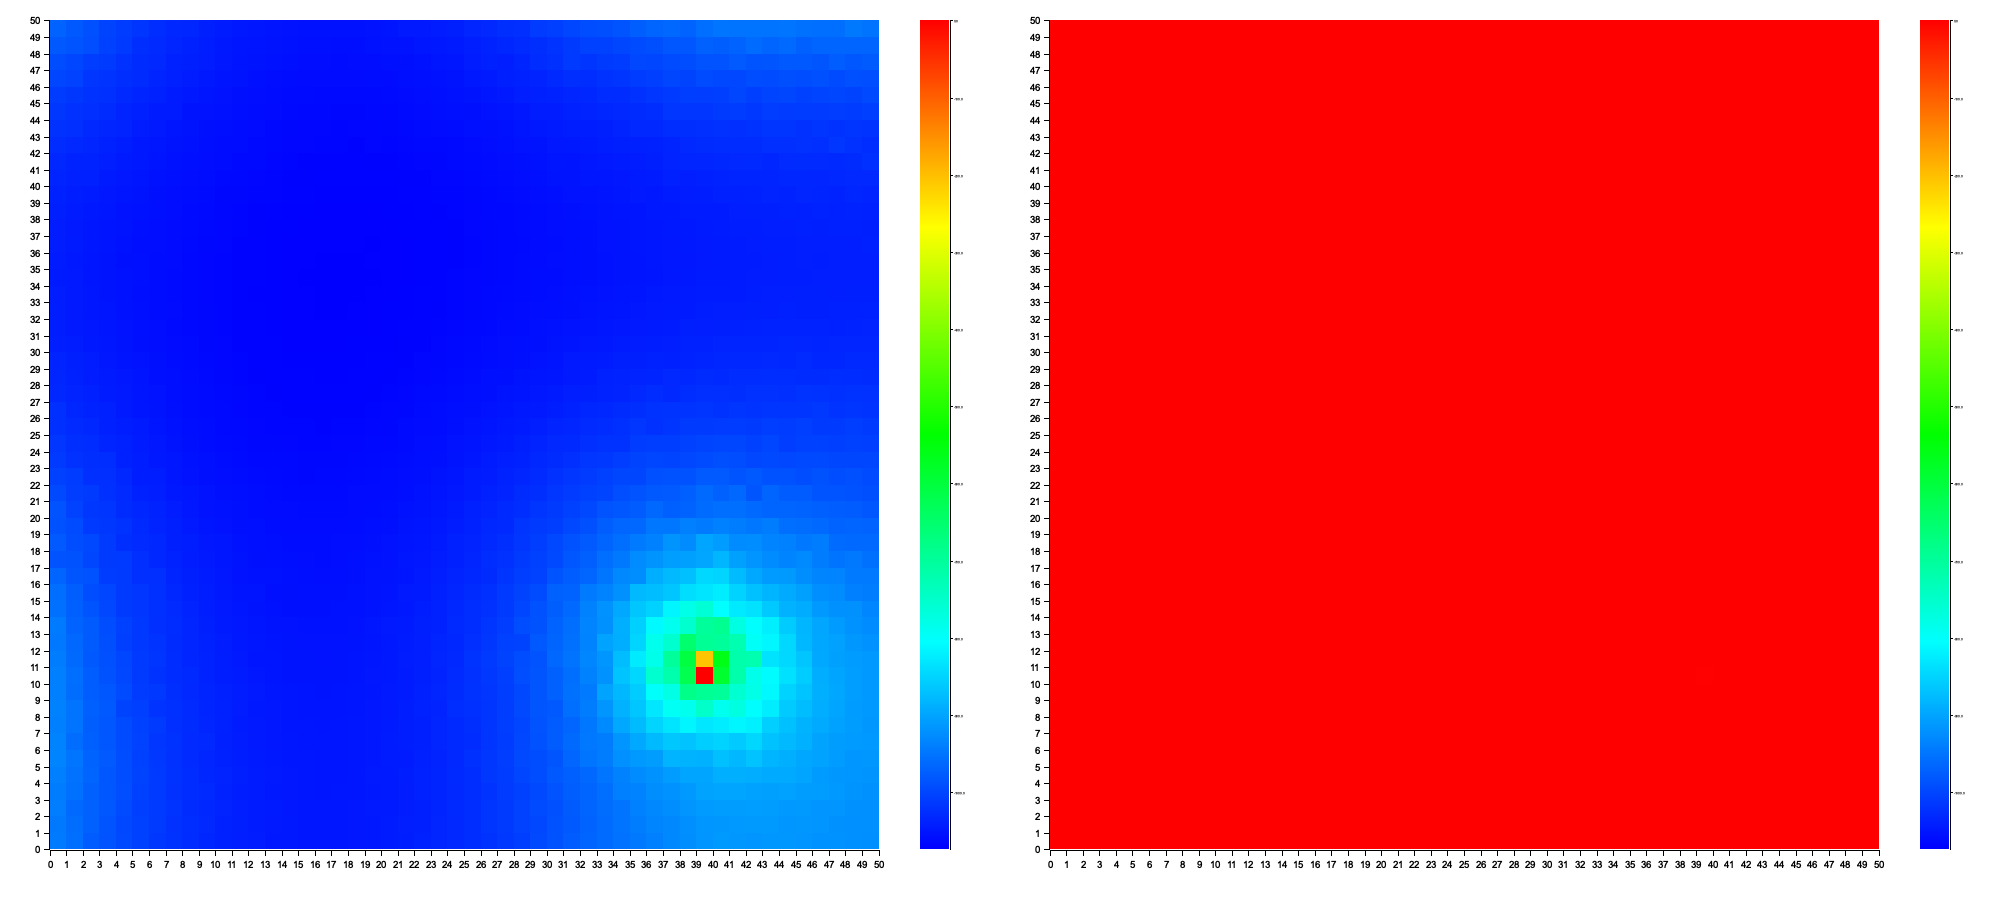
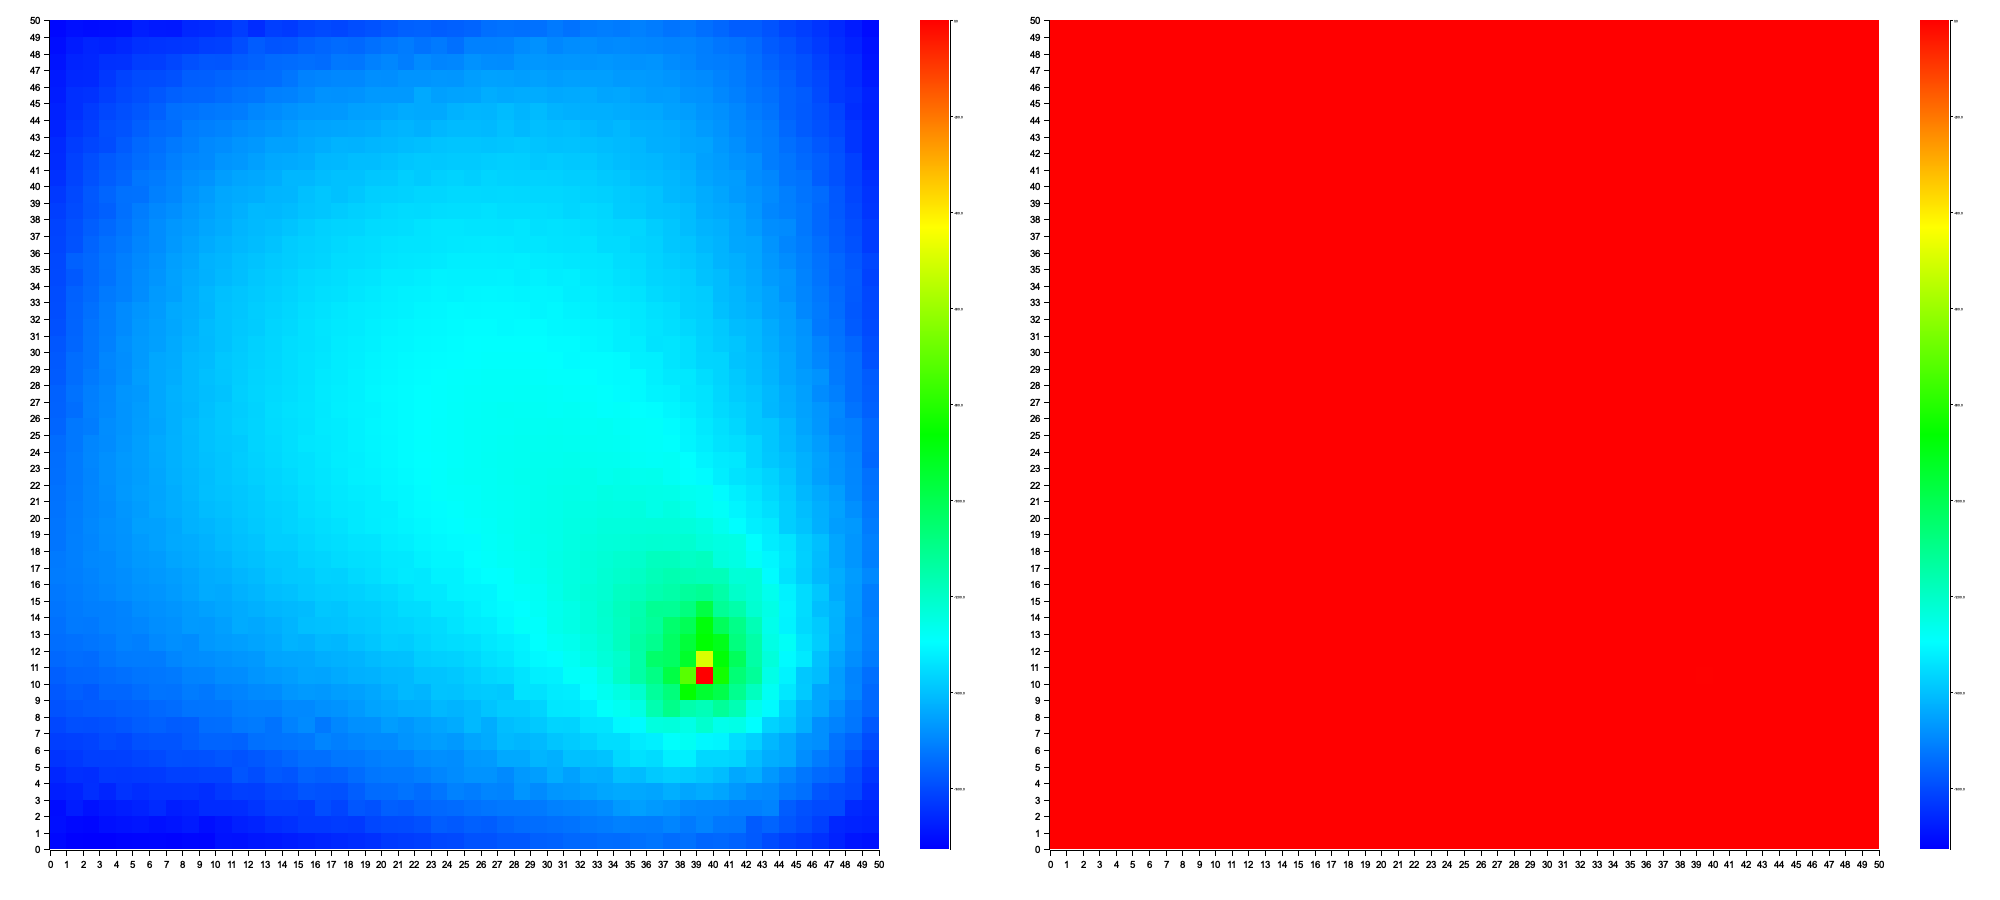
add: 周辺に壁を追加

diff --git a/src/main.rs b/src/main.rs
@@ -6,7 +6,7 @@ mod plot;
 use plot::plot_heatmap;
 
 const GAMMA: f64 = 1.0; // 割引率
-const DELTA_LIMIT: f64 = 1e-6; // 収束のしきい値
+const DELTA_LIMIT: f64 = 1e-3; // 収束のしきい値
 const SIZE: usize = 50; // グリッドサイズ
 const THETA_SIZE: usize = 36; // 角度の離散化数
 const MAX_ITER: usize = 1000; // 価値反復の最大回数
@@ -28,6 +28,14 @@ fn main() {
     // ゴールの位置を設定
     let goal = (SIZE - 11, SIZE - 11);
     rewards[goal] = 0.0;
+
+    // 外枠に壁を設定
+    for i in 0..SIZE {
+        rewards[(i, 0)] = -5.0;
+        rewards[(i, SIZE - 1)] = -5.0;
+        rewards[(0, i)] = -5.0;
+        rewards[(SIZE - 1, i)] = -5.0;
+    }
 
     for t in 0..THETA_SIZE {
         values[(goal.0, goal.1, t)] = 0.0;
